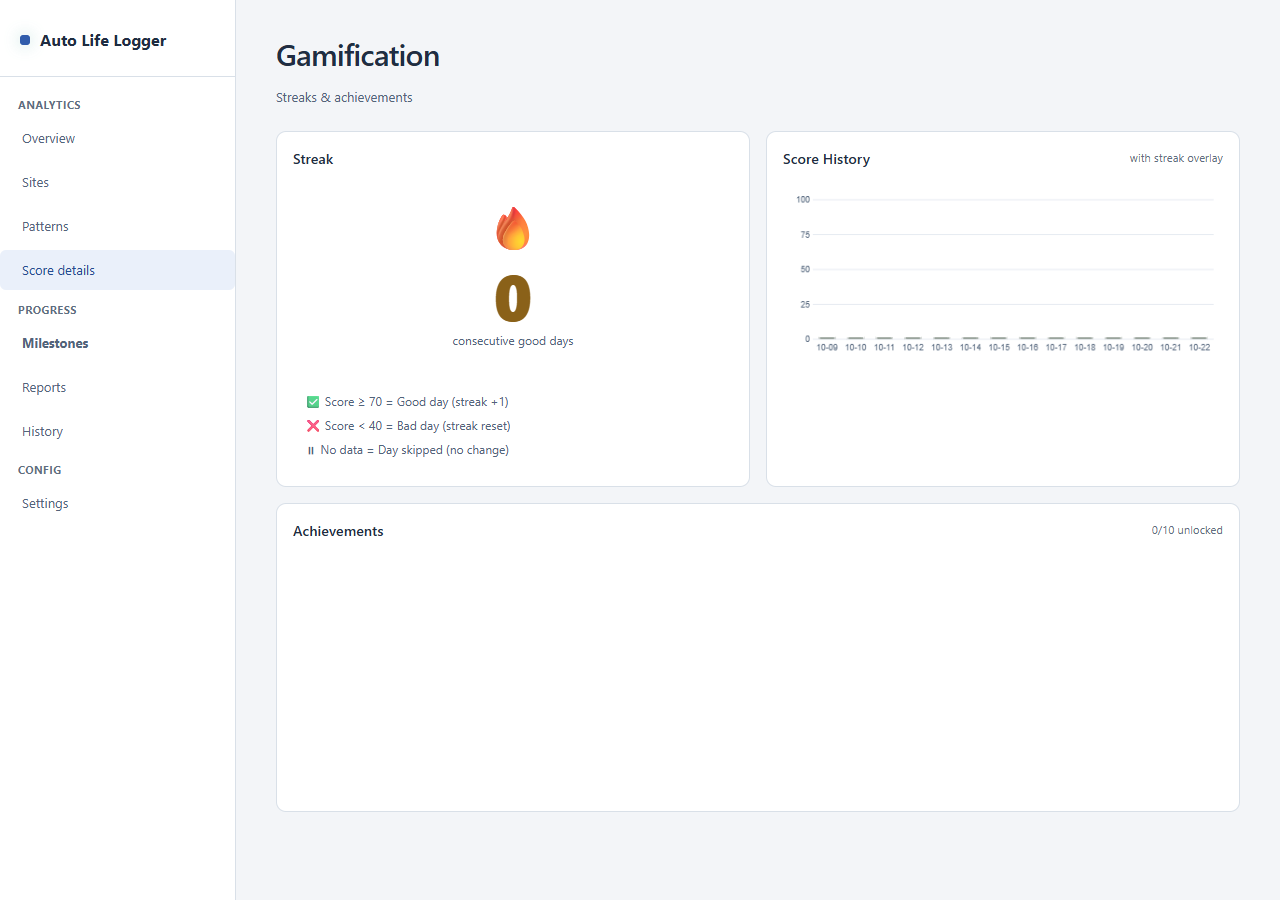
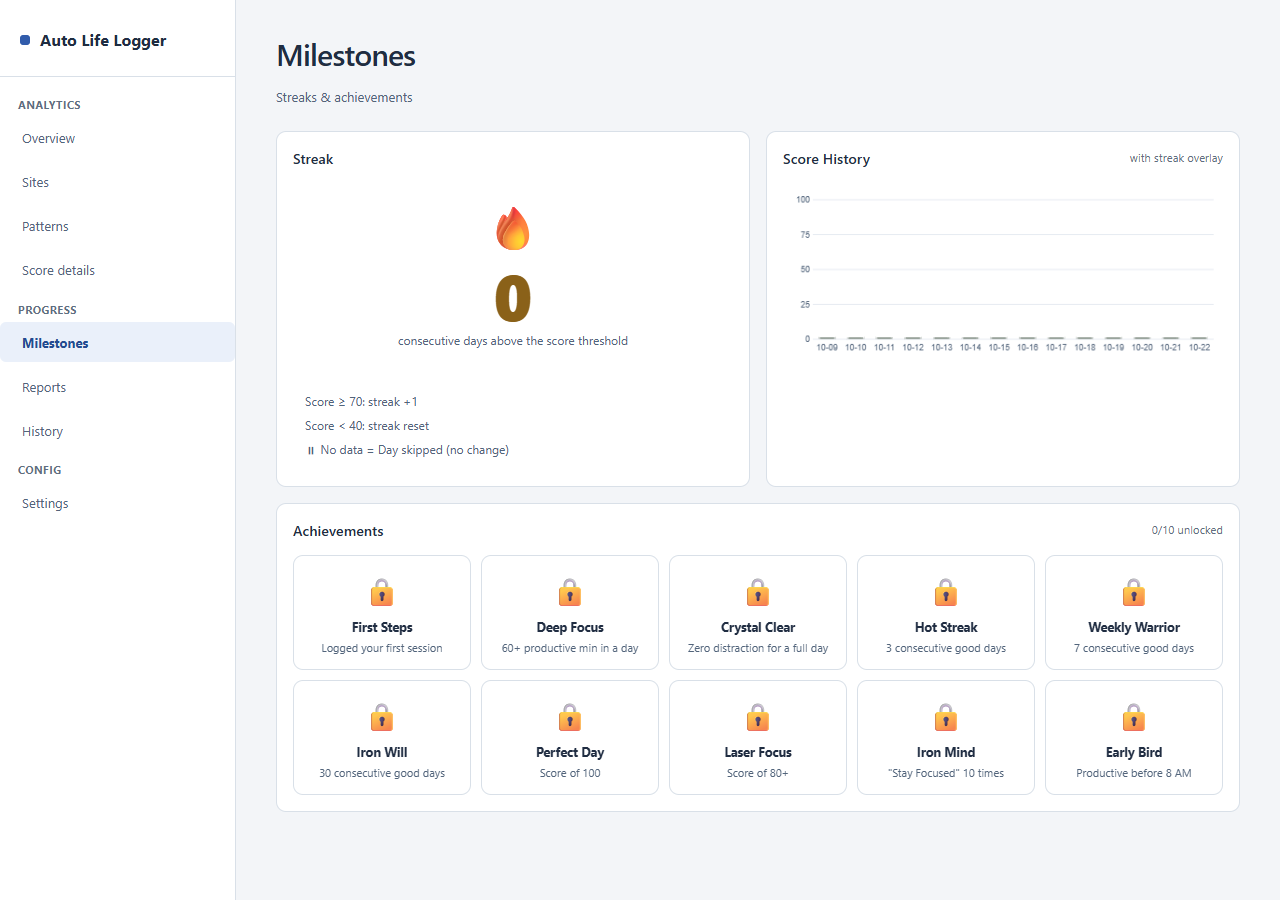
Complete screenshot review and clarify product limitations

diff --git a/dashboard.html b/dashboard.html
@@ -135,7 +135,7 @@
     <!-- ── Discipline ─────────────────────────────────────────────────────── -->
     <div class="page" id="page-score">
       <div class="page-topbar">
-        <div><h1 class="page-title">Discipline Score</h1><div class="page-sub">0–100 daily focus quality</div></div>
+        <div><h1 class="page-title">Score details</h1><div class="page-sub">Rule-based estimate, not a measure of your productivity</div></div>
         <button class="btn-primary" id="btnRecompute">Recompute Today</button>
       </div>
       <div class="panel-row">
@@ -166,7 +166,7 @@
     <!-- ── Gamification ───────────────────────────────────────────────────── -->
     <div class="page" id="page-gamify">
       <div class="page-topbar">
-        <div><h1 class="page-title">Gamification</h1><div class="page-sub">Streaks &amp; achievements</div></div>
+        <div><h1 class="page-title">Milestones</h1><div class="page-sub">Streaks &amp; achievements</div></div>
       </div>
       <div class="panel-row">
         <div class="panel" style="flex:0 0 280px">
@@ -174,12 +174,12 @@
           <div class="streak-display">
             <div class="streak-fire">🔥</div>
             <div class="streak-number" id="gStreak">0</div>
-            <div class="streak-label">consecutive good days</div>
+            <div class="streak-label">consecutive days above the score threshold</div>
             <div class="streak-best" id="gStreakBest"></div>
           </div>
           <div class="streak-rules">
-            <div class="streak-rule">✅ Score ≥ 70 = Good day (streak +1)</div>
-            <div class="streak-rule">❌ Score &lt; 40 = Bad day (streak reset)</div>
+            <div class="streak-rule">Score ≥ 70: streak +1</div>
+            <div class="streak-rule">Score &lt; 40: streak reset</div>
             <div class="streak-rule">⏸ No data = Day skipped (no change)</div>
           </div>
         </div>

diff --git a/docs/flagship/VISUAL_QA_REPORT.md b/docs/flagship/VISUAL_QA_REPORT.md
@@ -1,0 +1,33 @@
+# Visual QA report — 22 October 2026
+
+Actual extension pages were rendered in isolated Chromium profiles. Screenshots use synthetic data, never private browsing history. The before views are labeled in the gallery; they show the prior candidate UI, not a claim that those candidates were published. No generated mockup substitutes for product rendering.
+
+## AvtoNetGaraža 1.2.0
+
+Reviewed: compact launcher, full-tab garage, comparison, vehicle detail and notes, folders, notification empty state and settings/error recovery. See screenshots/avtonet-*-after.png.
+
+The old popup crammed the garage into limited space. The new 380px launcher opens a full-tab workspace. Comparison differences have text labels and asking-price gaps; notes and a purchase checklist belong to the vehicle detail. An early pass retained low-contrast gradient buttons; these were replaced with solid orange controls and dark text. Malformed backup JSON originally exposed an unhelpful English parser error; it now produces a wrapped Slovenian explanation. Settings and notifications now qualify marketplace checks on access being available.
+
+Final inspection: headings and controls are readable, folder rows align, empty states explain the next state, and detail controls fit the dialog. Missing listing photos intentionally exercise the fallback. The large workspace leaves room for a real shortlist; empty secondary sections do not invent data. Browser-native file-input wording follows browser locale. Live marketplace behavior remains restricted and is not certified by these screenshots.
+
+## YouTube Focus Mode 3.2.0
+
+Reviewed: first-run view, compact configured view, expanded granular controls, focus session and dark appearance. See screenshots/youtube-*-after.png.
+
+The first redesign was too tall with every setting exposed. Granular controls and preset naming now use disclosures; the main configured view fits a 380px by 600px viewport. The switch leads the hierarchy, with view/session tabs separating tasks. Named presets and the five-minute pause have visible status. Keyboard timer selection exposed a stale Start label; rendering was corrected and tested.
+
+Final inspection: compact view has clear hierarchy and readable controls; dark session view remains legible. Expanded advanced controls can scroll. No time-saved claims or unsupported classification are shown.
+
+## Auto Life Logger 2.3.0
+
+Reviewed: weekly overview, Sites, Patterns, Score details, Milestones, Reports, History, Settings, popup, onboarding and options. See screenshots/logger-*-after.png.
+
+The first light-theme pass retained dark gradients and faint chart text. These were replaced with light surfaces and darker labels. The weekly review and popup now lead with recorded time, not a productivity score. Quiet onboarding is available before detailed configuration. Score details describe a rule-based estimate; milestone thresholds no longer label a day good or bad.
+
+Screenshot review caught apparently empty Sites and achievement panels plus a stale navigation highlight. DOM assertions confirmed populated content; finite animations were captured before completion by headless Chromium. Capture now finishes animations and asserts the selected section and seeded Sites data. The repeated screenshots show populated rows, unlocked/locked achievement states and the correct highlighted section. This was a capture defect, not evidence that empty screenshots were acceptable.
+
+Final inspection: the dashboard has consistent readable type, aligned panels, labeled charts, quiet colors and explicit empty states. Secondary legacy score/milestone features remain and are less central; some historical achievement wording is still motivational rather than analytical. Reports are shown honestly empty until generated.
+
+## Coverage and limits
+
+Keyboard interactions, native labels, visible focus styles, responsive layouts and reduced-motion styles have targeted coverage. This is not a complete WCAG 2.2 AA conformance audit. Screen-reader testing with assistive technology and genuine five-person usability sessions remain outstanding. Public competitor-page captures are research evidence, not signed-in product audits. Review performance methodology in PERFORMANCE.json and the release report before interpreting timings.
